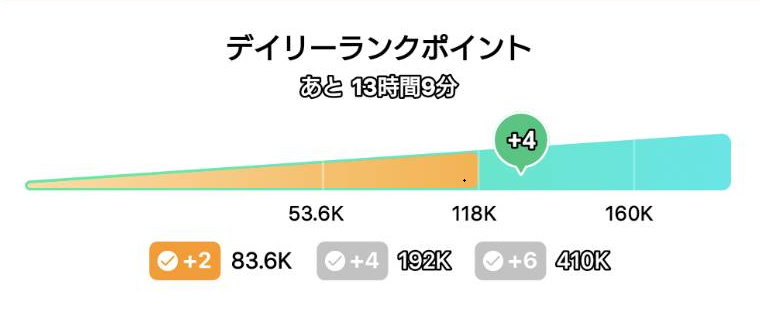
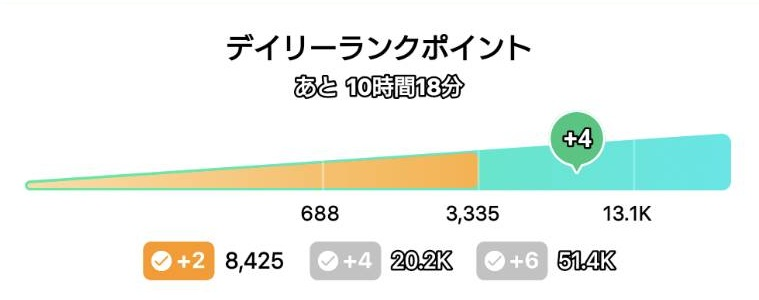
about

diff --git a/js/navi.js b/js/navi.js
@@ -133,7 +133,7 @@ function _getCurrentPage() {
     return 'index';
   }
 
-  // クエリパラメータやアンカーがある場合は無視して、拡張子を除く
+  // クエリパラメータやアンカーがある場合は無視して，拡張子を除く
   filename = filename.split('?')[0].split('#')[0].split('.')[0];
 
   return filename || 'index';
@@ -229,34 +229,38 @@ function renderFooter() {
 //////////////////////////////////////////////////
 const glossary = {
 	coin: {
-		msg: "コイン数は，ライブスコアの 1/3 とし，1 の位を切り上げたものとして計算しています．コメント数や視聴者数などにも応じて変動するため参考値としてご利用ください。",
+		msg: "コイン数は，ライブスコアの 1/3 とし，1 の位を切り上げたものとして計算しています．コメント数や視聴者数などにも応じて変動するため参考値としてご利用ください．",
 		page: "coin",
 		index: "コインスウ",
-		dt: "コイン数",
-		dd: "コイン数は，<span class='term' data-term='score'>ライブスコア</span>の 1/3 として計算しています．ライブスコアの算出方法は公開されていないこと，また，コメント数や視聴者数などにも応じて変動するため参考値としてご利用ください。",
+		dt: "コイン数 <small>（ギフト数）</small>",
+		dd: "コイン数は，<span class='term' data-term='score'>ライブスコア</span>の 1/3 として計算しています．ライブスコアの算出方法は公開されていないこと，また，コメント数や視聴者数などにも応じて変動するため参考値としてご利用ください．" +
+"<p>ライブスコアの算出方法は公開されていないものの，ギフトが最もライブスコアに寄与することは間違いありません．同じ人がたくさんのコインを投げるよりも，多くの人が投げることや，追いギフ・追いコメなどがライブスコアに影響があると言われています．" +
+"",
 
 	},
 	score: {
-		msg: "ライブスコアとは，ライバーさんがリスナーさんから受け取る応援を示す指標で，コメントの数や視聴人数、スーパーライクの回数などもスコアに含まれる。",
+		msg: "ライブスコアとは，ライバーさんがリスナーさんから受け取る応援を示す指標で，コメントの数や視聴人数，スーパーライクの回数などもスコアに含まれる．",
 		page: "score",
 		index: "ライブスコア",
 		dt: "ライブスコア",
-		dd: "ライブスコアとは，ライバーがリスナーから受け取る応援を示す指標です。現在の配信画面の左上に表示され，１分ごとに更新され，24時にリセットされます．" +
+		dd: "ライブスコアとは，ライバーがリスナーから受け取る応援を示す指標です．１分ごとに更新され，24時（00:00）にリセットされます．１日の間にだんだんと大きくなる数値で，小さくなることはありません．" +
 		"<p>ライブスコアは，「<span class='term' data-term='coin'>コイン数</span>」「コメント数」「スーパーライク数」「視聴人数」などの応援要素を総合して算出されていますが，そのロジックは公開されていません．" +
+"<p>ライブスコアは，配信画面の左上に矢印と共に表示されています．下の画像では，現在のライブスコアが 79,782 であることを表しています．" +
 "<p><div class='img'><img src='img/score.png' alt='ライブスコアの例' width='20%'></div>" +
+"<p>多くの場合，ライバーが目標となる<span class='term' data-term='point'>デイリーポイント</span>を設定し，それに対応するライブスコアを目指すことになります．" +
 "<p>より詳細な情報は，『<a href='https://note.com/palmu/n/nc853285c3db3'>【たいむず（2024/10）】ライブスコアの導入</a> <a href='https://note.com/palmu/n/nc853285c3db3#f469e53e-1e96-4c56-8de5-476f1ed9d6f8'>6. ライブスコアの算出ロジックについて</a>』『<a href='https://intercom.help/light-inc/ja/articles/9941027-%E3%83%A9%E3%82%A4%E3%83%96%E3%82%B9%E3%82%B3%E3%82%A2%E3%81%AB%E3%81%A4%E3%81%84%E3%81%A6'>ライブスコアについて</a>』を参照ください．" +
 		"",
 	},
 	border: {
-		msg: "保証ボーダーとは，締め時間に関係なく、その日のライブスコアが規定値を上回ると、デイリーランクポイントの「+2」「+4」「+6」の獲得が保証される仕組みです。別名：確定値，確定スコア",
+		msg: "保証ボーダーとは，締め時間に関係なく，その日のライブスコアが規定値を上回ると，デイリーランクポイントの「+2」「+4」「+6」の獲得が保証される仕組みです．別名：確定値，確定スコア",
 		page: "gborder",
 		index: "ホショウボーダー",
-		dt: "保証ボーダー (確定スコア, 確定値)",
-		dd: "保証ボーダーとは，締め時間に関係なく、その日のライブスコアが規定値を上回ると、<span class='term' data-term='point'>デイリーランクポイント</span>の「+2」「+4」「+6」の獲得が保証される仕組みです。ライバーのプロフィールに表示される「<span class='term' data-term='rank'>ユーザーランク</span>」から、保証ボーダーの値を確認できます．下の場合では，「+2」「+4」「+6」の確定値は，それぞれ，「83.6K」「118K」「160K」です．" +
-		"ここで，「K」は「キロ」，つまり，1,000倍の値を表します．「118K」の場合だと，118,000 から 118,999 の間の値を表します．本ツールでは，中央値である，118,500 を採用しています．" +
+		dt: "保証ボーダー <small>（確定スコア，確定値）</small>",
+		dd: "保証ボーダーとは，締め時間に関係なく，その日のライブスコアが規定値を上回ると，<span class='term' data-term='point'>デイリーランクポイント</span>の「+2」「+4」「+6」の獲得が保証される仕組みです．ライバーのプロフィールに表示される「<span class='term' data-term='rank'>ユーザーランク</span>」から，保証ボーダーの値を確認できます．下の場合では，「+2」「+4」「+6」の確定値は，それぞれ，「8,425」「20.2K」「51.4K」です．" +
+		"ここで，「K」は「キロ」，つまり，1,000倍の値を表します．「51.4K」の場合，51,400 から 51,499 の間の値を表します．本ツールでは，中央値である 51,450 を採用しています．" +
 		"<p><div class='img'><img src='img/border.png' alt='保証ボーダーの例' width='70%'></div>" +
 		"<p>なお，本ツールでは，保証ボーダーの値を手動で登録しているため，最新になっていなかったり，間違った値になっている可能性があります．" +
-		"不具合報告は，<a href=https://github.com/ru-palmu/meter>GitHub</a> までお願いします．" +
+		"不具合報告は，<a href=https://github.com/ru-palmu/meter/issues>GitHub</a> までお願いします．" +
 "<p>より詳細な情報は，『<a href='https://note.com/palmu/n/n4eb0cf1c4aa8'>【たいむず(2024/6)】保証ボーダーとスキップカードについて</a>』を参照ください．" +
 "",
 	},
@@ -275,9 +279,9 @@ const glossary = {
 "「ランクアップ」には 18 ポイント，「ランクキープ」には 12 ポイントが必要です．" +
 "<p>下の画像は，上の画像の「ユーザーランク」を表す「B2ランク」をタップすると表示される画面です．" +
 "2日と13時間9分で， +2 を獲得するとランクキープ，+8 を獲得するとランクアップできることを表しています．" +
-"ランクアップをめざす場合には，<a href='plan.html' class='append-query'>本ツール: 「プラン」</a>では <strong>3日</strong>と<strong>8ポイント</strong>を入力してください．" +
+"ランクアップをめざす場合には，本ツール「<a href='plan.html' class='append-query'>プラン</a>」では <strong>3日</strong>と<strong>8ポイント</strong>を入力してください．" +
 "<p><div class='img'><img src='img/rankup.png' alt='保証ボーダーの例' width='70%'></div>" +
-"より詳細な情報は，『<a href='https://note.com/palmu/n/nff989241c2bf'>「全てのライバーさんへの配信機能の開放」と、「ユーザーランク」機能について</a>』を参照ください．" +
+"より詳細な情報は，『<a href='https://note.com/palmu/n/nff989241c2bf'>「全てのライバーさんへの配信機能の開放」と，「ユーザーランク」機能について</a>』を参照ください．" +
 "",
 	},
 	point: {
@@ -287,11 +291,11 @@ const glossary = {
 		dt: "デイリーランクポイント",
 		dd: "デイリーランクポイントは，ライバーがライブスコアに応じて獲得するポイントです．" +
 		"配信を行わなければ「+0」，配信を行うと少なくとも「+1」が獲得できます．" +
-		"締め時間（00:00）までにボーダー，または，<span class='term' data-term='border'>保証ボーダー</span>を超えると，「+2」「+4」「+6」が獲得できます．" +
+		"締め時間である 00:00 までにボーダー，または，<span class='term' data-term='border'>保証ボーダー</span>を超えると，「+2」「+4」「+6」が獲得できます．" +
 "<p>下の画像では，保証ボーダーの 83.6K を超えているため，「+2」が獲得できることを表しています．" +
 "また，ボーダー（変動スコア）の 118K を超えているため，緑色で「+4」と表示されていますが，" +
-"残り 13時間9分の間でボーダーは上がっていく可能性があり，「+4」が獲得できることは保証されていません．" +
-"<p><div class='img'><img src='img/border.png' alt='保証ボーダーの例' width='70%'></div>" +
+"残り 13時間9分の間でボーダーは上がっていく可能性があり，「+4」の獲得は保証されていません．" +
+"<p><div class='img'><img src='img/point.png' alt='保証ボーダーの例' width='70%'></div>" +
 "より詳細な情報は，『<a href='https://note.com/palmu/n/nff989241c2bf'>アップデート便り(2024/03)</a>』を参照ください．" +
 "",
 	},
@@ -309,7 +313,7 @@ function setupTooltips() {
 
     // ② それぞれにクリックイベントをつける
     term.addEventListener('click', (e) => {
-      // ③ 既にツールチップが表示されていたら、消す（トグル）
+      // ③ 既にツールチップが表示されていたら，消す（トグル）
       const existing = term.querySelector('.tooltip-box');
       if (existing) {
         existing.remove();
@@ -319,7 +323,7 @@ function setupTooltips() {
       // ④ 他のツールチップがあれば消す
       document.querySelectorAll('.tooltip-box').forEach(b => b.remove());
 
-      // ⑤ ツールチップを作って中身を設定し、DOMに追加
+      // ⑤ ツールチップを作って中身を設定し，DOMに追加
       const tooltip = document.createElement('div');
       tooltip.className = 'tooltip-box';
 
@@ -352,7 +356,7 @@ function hashChangeGlossary() {
 	return;
   }
 
-  // ハッシュが変更されたら、該当する用語をハイライト
+  // ハッシュが変更されたら，該当する用語をハイライト
   const dt = document.querySelector(`dl#glossary dt${hash}`);
   if (dt) {
 	dt.classList.add('highlighted');
@@ -386,7 +390,7 @@ function renderGlossary() {
     const a = document.createElement("a");
 	const currentParams = window.location.search;
     a.href = `${currentParams}#${term.page}`;
-	a.textContent = term.dt;
+	a.innerHTML = term.dt;
     dt.appendChild(a);
 	if (hash == `#${term.page}`) {
       dt.className = 'highlighted';
@@ -394,7 +398,6 @@ function renderGlossary() {
       setTimeout(() => {
         dt.className = '';
       }, 5000);
-
 	}
 
     const dd = document.createElement("dd");

diff --git a/about.html b/about.html
@@ -28,24 +28,23 @@
 ライバーが配信に使用していない端末から残コイン数を計算するという利用方法もあると思います．
 </p>
 
-<p>改善要望・不具合報告は，<a href=https://github.com/ru-palmu/meter>GitHub</a> までお願いします．</p>
+<p>改善要望・不具合報告は，<a href=https://github.com/ru-palmu/meter/issues>GitHub</a> までお願いします．</p>
 </div>
-
 
 <span class="sub-title">このツールの使い方</span>
 
-<p>最初に一番上のタブからあなたのランクを選択してください．
-本ツールは，D帯 C帯には対応していませんが，「<a href="index.html" class="append-query">メーター</a>」「<a href="plan.html" class="append-query">プラン</a>」機能は，保証ボーダーの値を手動で修正することで利用していただくことは可能です．
+<p>最初に一番上のタブから，あなたのランクを選択してください．
+本ツールは，D帯 C帯には対応していませんが，「<a href="index.html" class="append-query">メーター</a>」「<a href="plan.html" class="append-query">プラン</a>」機能は，<span class="term" data-term="border">保証ボーダー</span>の値を手動で修正することで利用していただくことは可能です．
 </p>
 
-<p>次に，２番めのタブを選択してください．</p>
+<p>次に，２番めのタブから，使いたい機能を選択してください．</p>
 
-<ul>
-	<li>「<a href="index.html" class="append-query">メーター</a>」：現在のライブスコアから保証ボーダー（確定スコア）までに必要なコイン数を計算します．
-	<li>「<a href="plan.html" class="append-query">プラン</a>」：ランクキープ，または，ランクアップに向けて，どのようにポイントを確定するとよいかを計算します．
-	<li>「<a href="history.html" class="append-query">履歴</a>」：保証ボーダー（確定スコア）の履歴を表示します．
-<li>「使い方」：このページです．
-</ul>
+<dl class="func">
+	<dt>「<a href="index.html" class="append-query">メーター</a>」</dt><dd>現在のライブスコアから<span class="term" data-term="border">保証ボーダー</span>（確定スコア）までに必要なコイン数を計算します．</dd>
+	<dt>「<a href="plan.html" class="append-query">プラン</a>」</dt><dd>ランクキープ，または，ランクアップに向けて，どのように<span class="term" data-term="point">ポイント</span>を獲得するとよいかを計算します．</dd>
+	<dt>「<a href="history.html" class="append-query">履歴</a>」</dt><dd>保証ボーダー（確定スコア）の履歴を表示します．</dd>
+	<dt>「使い方」</dt><dd>このページです．</dd>
+</dl>
 
 <span class="sub-title">用語集</span>
 
@@ -58,7 +57,7 @@
 
 <ul class="help">
 	<li><a href="https://note.com/palmu/n/nbabf5a106770">「ファンバッジ機能」のリリースについて</a>
-	<li><a href="https://note.com/palmu/n/nff989241c2bf">「全てのライバーさんへの配信機能の開放」と、「ユーザーランク」機能について</a>
+	<li><a href="https://note.com/palmu/n/nff989241c2bf">「全てのライバーさんへの配信機能の開放」と，「ユーザーランク」機能について</a>
 </ul>
 
 <footer id="footer"></footer>

diff --git a/history.html b/history.html
@@ -22,10 +22,10 @@
 
 <div class="intro">
 <span id="history_rank"></span><span class="term" data-term="border">保証ボーダー</span>（確定スコア）の変化を確認します．
-ここの表の一番上の値が，「メーター」や「プラン」で利用しているものです．
+ここの表の一番上の値が，「<a href="index.html" class="append-query">メーター</a>」や「<a href="plan.html" class="append-query">プラン</a>」で利用しているものです．
 </div>
 
-<p><span class="term" data-term="border">保証ボーダー</span>（確定スコア）は，隔週の金曜日に更新されます。</p>
+<p><span class="term" data-term="border">保証ボーダー</span>は，隔週の金曜日に更新されます．</p>
 
 <p>
 <select id="result-format">

diff --git a/plan.html b/plan.html
@@ -96,7 +96,7 @@ B3 ランクの人が，4日で +8 ポイントを獲得するために必要な
 	<li>必要なコイン数は，ライブスコアの 1/3 として計算しています．
 コメント数や視聴人数などの影響により若干の誤差が生じます．参考値としてご利用ください．
 	<li>保証ボーダー（確定スコア）は手動で更新しているため，最新になっていなかったり，間違った値になっている可能性があります．
-改善要望・不具合報告は，<a href=https://github.com/ru-palmu/meter>GitHub</a> までおねがいします．
+改善要望・不具合報告は，<a href=https://github.com/ru-palmu/meter/issues>GitHub</a> までおねがいします．
 </ul>
 
 <footer id="footer"></footer>

diff --git a/index.html b/index.html
@@ -56,7 +56,7 @@
 	<li>必要なコイン数は，ライブスコアの 1/3 として計算しています．
 コメント数や視聴人数などの影響により若干の誤差が生じます．参考値としてご利用ください．
 	<li>保証ボーダー（確定スコア）は手動で更新しているため，最新になっていなかったり，間違った値になっている可能性があります．
-改善要望・不具合報告は，<a href=https://github.com/ru-palmu/meter>GitHub</a> までおねがいします．
+改善要望・不具合報告は，<a href=https://github.com/ru-palmu/meter/issues>GitHub</a> までおねがいします．
 </ul>
 
 <span class="sub-title">ご参考</span>

diff --git a/css/style.css b/css/style.css
@@ -366,3 +366,28 @@ table.history td.decrease {
   border: 1px solid #ccc;
   border-radius: 4px;
 }
+
+
+.func {
+  margin: 1em 0;
+  padding: 0.5em 1em;;
+  background-color: #f0f8f4; /* ベースに淡い緑 */
+  border-radius: 8px;
+  border: 1px solid #a2d5a2;
+  box-shadow: 0 2px 5px rgba(0, 0, 0, 0.03);
+  font-size: 1em;
+}
+
+.func dt {
+  font-weight: bold;
+  color: #2f6b2f;
+  margin-top: 0.6em;
+}
+
+.func dd {
+  margin: 0 0 0.8em 1em;
+  color: #333;
+  line-height: 1.5;
+}
+
+
